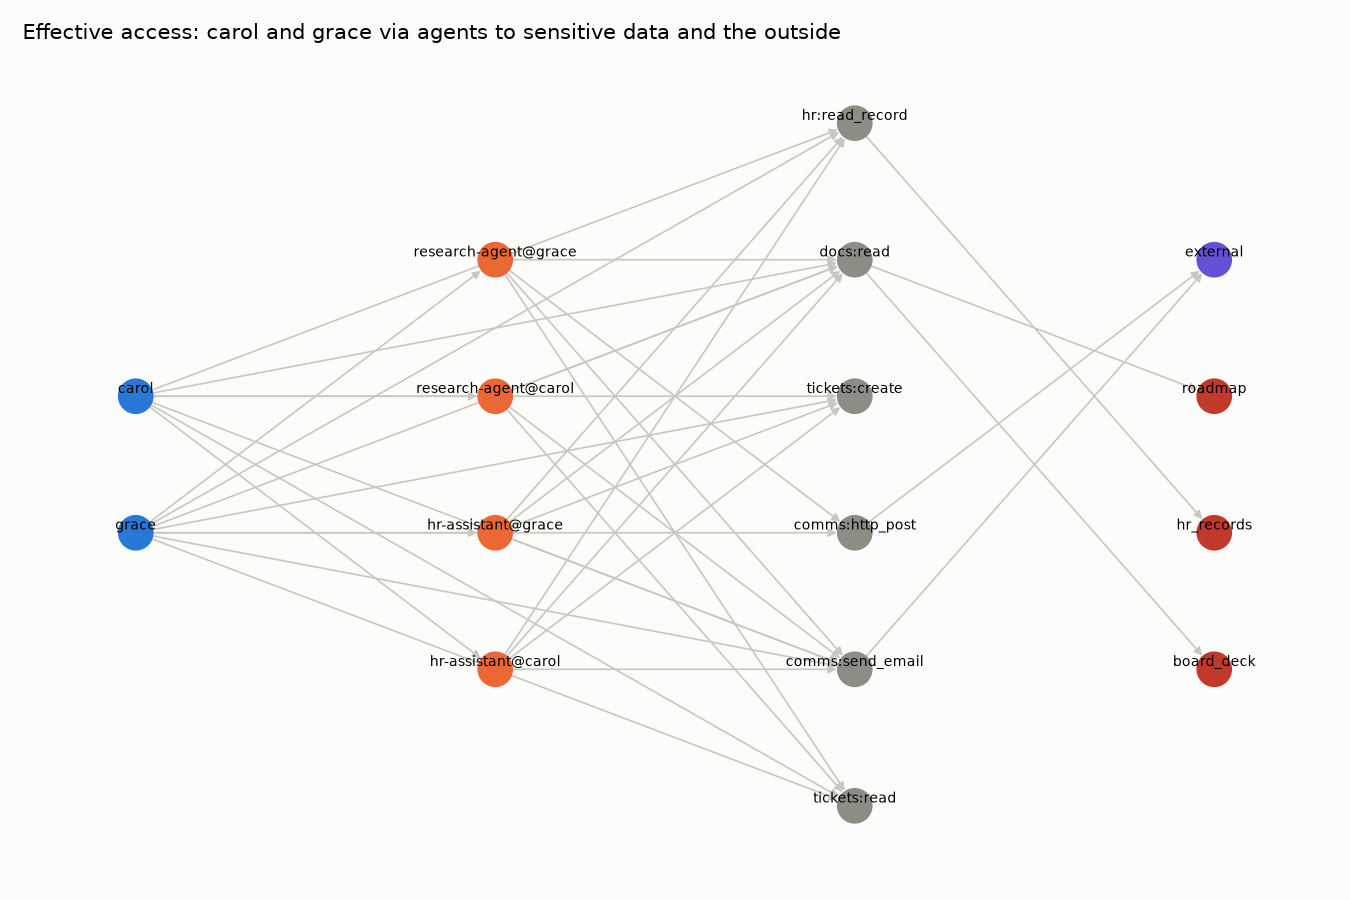
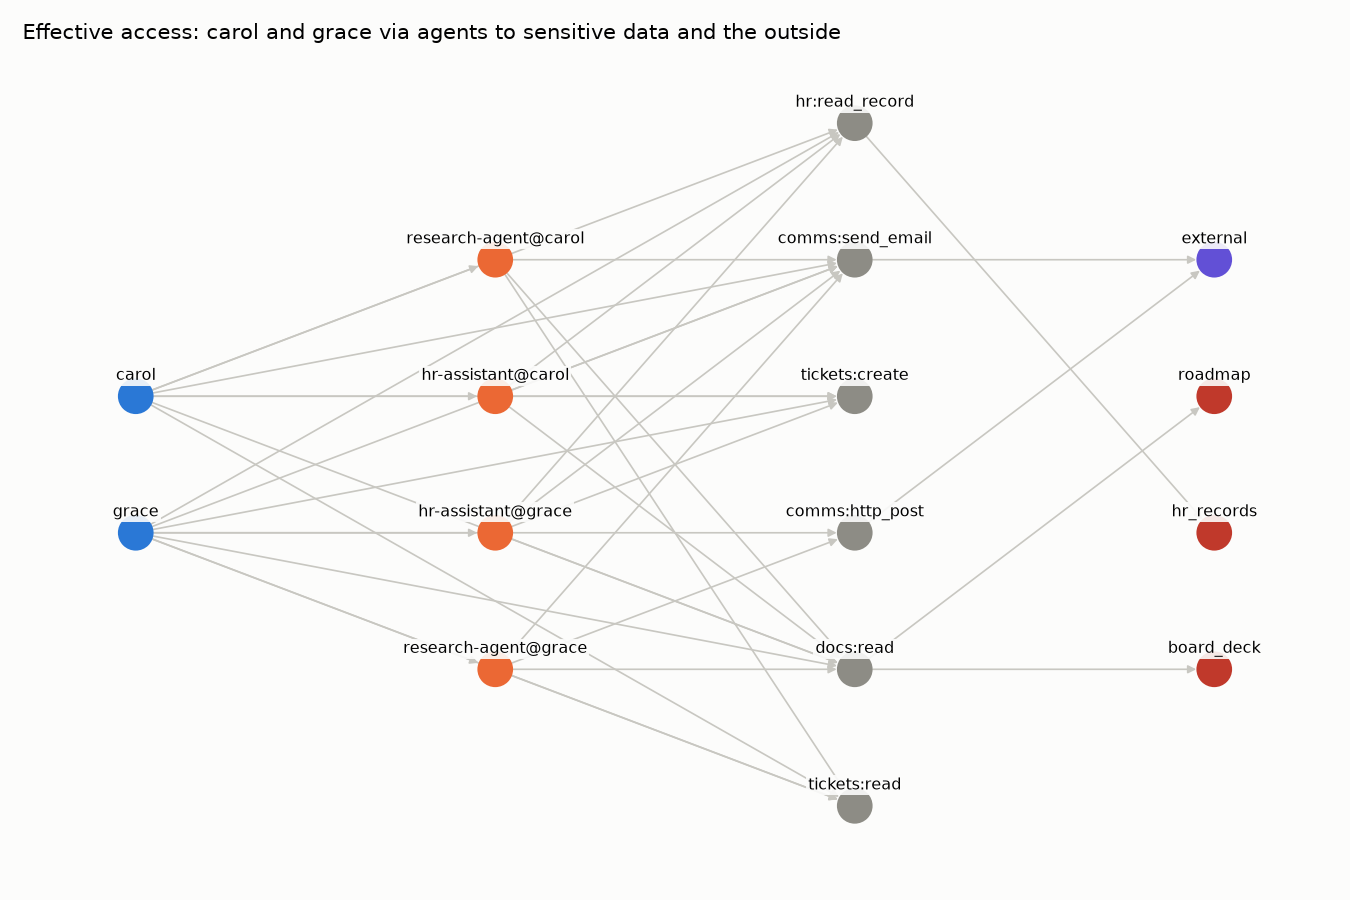
attack-path chart: readable labels

diff --git a/analytics/run.py b/analytics/run.py
@@ -110,7 +110,9 @@ def _draw(g):
     plt.figure(figsize=(9, 6), facecolor="#fcfcfb")
     nx.draw_networkx_edges(s, pos, edge_color="#c8c7c1", arrows=True, arrowsize=8, width=0.8)
     nx.draw_networkx_nodes(s, pos, node_color=[col[d["kind"]] for _, d in s.nodes(data=True)], node_size=260)
-    nx.draw_networkx_labels(s, pos, labels={n: n.split(":", 1)[1] for n in s}, font_size=6.5, verticalalignment="bottom")
+    lpos = {n: (x, y + 0.06) for n, (x, y) in pos.items()}
+    nx.draw_networkx_labels(s, lpos, labels={n: n.split(":", 1)[1] for n in s}, font_size=7.5,
+                            bbox=dict(fc="#fcfcfb", ec="none", pad=1.0, alpha=0.9))
     plt.title("Effective access: carol and grace via agents to sensitive data and the outside", loc="left", fontsize=10)
     plt.axis("off")
     plt.tight_layout()

diff --git a/analytics/report.md b/analytics/report.md
@@ -137,9 +137,9 @@ Daily volume more than 3 standard deviations above the identity's own baseline, 
 
 ## Validation by replay
 
-Baseline fidelity: replaying 441 held-out requests against the **current** policy reproduces history with 0 mismatches (this checks the replay itself).
+Baseline fidelity: replaying 438 held-out requests against the **current** policy reproduces history with 0 mismatches (this checks the replay itself).
 
-Proposed policy: **8 of 441** held-out requests would have broken.
+Proposed policy: **8 of 438** held-out requests would have broken.
 
 | identity | action | requests |
 |---|---|---|
